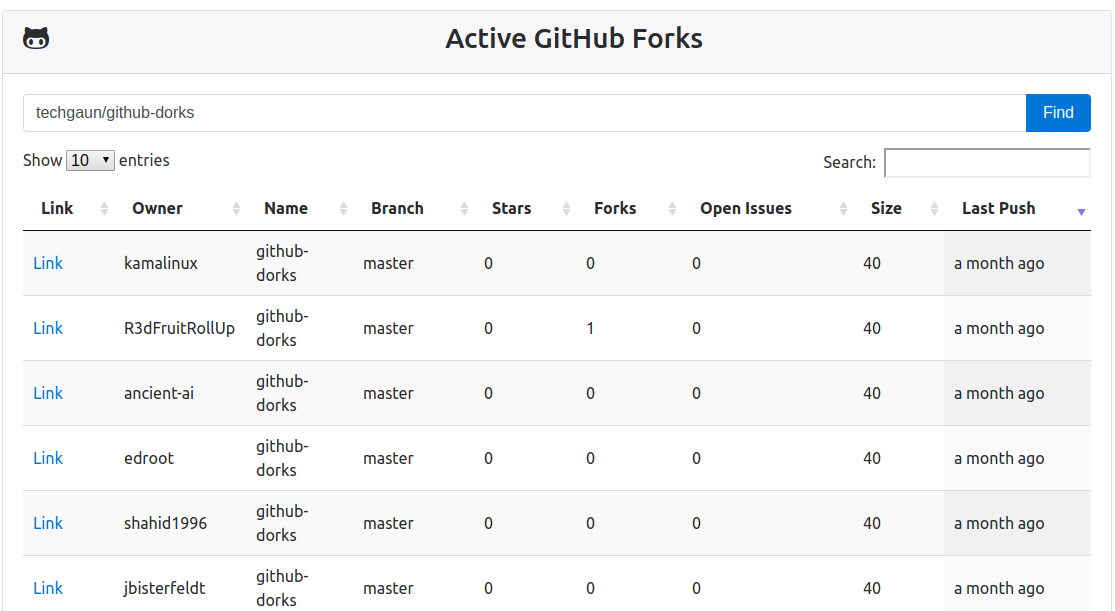
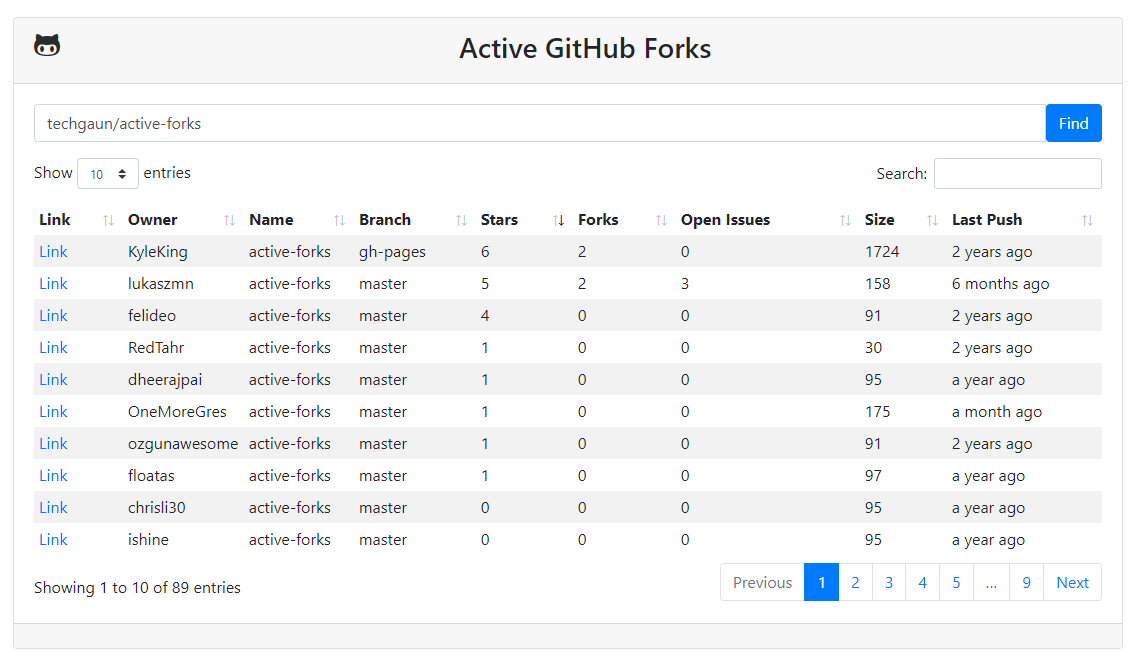
Replace custom css with Bootstrap4 classes

diff --git a/index.html b/index.html
@@ -15,24 +15,17 @@
     <script src="https://cdn.datatables.net/1.10.22/js/dataTables.bootstrap4.min.js"></script>
     <script src="https://cdnjs.cloudflare.com/ajax/libs/moment.js/2.29.0/moment.min.js"></script>
     <style>
-        body {
-            padding-top: 2rem;
-            padding-bottom: 2rem;
-        }
-        .black {
-            color: #292b2c;
-        }
     </style>
 </head>
 
-<body>
+<body class='mt-4 mb-2'>
     <div class="container">
         <div class="row">
             <div class="col-sm-12 col-lg-12">
                 <div class="card">
                     <div class="card-header text-center">
                         <h3>
-                            <a href="https://github.com/techgaun/active-forks" class="black">
+                            <a href="https://github.com/techgaun/active-forks" class="text-dark">
                                 <i class="fa fa-github-alt pull-left" aria-hidden="true"></i>
                             </a>
                             Active GitHub Forks
